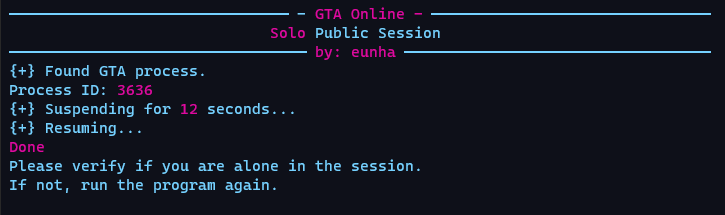
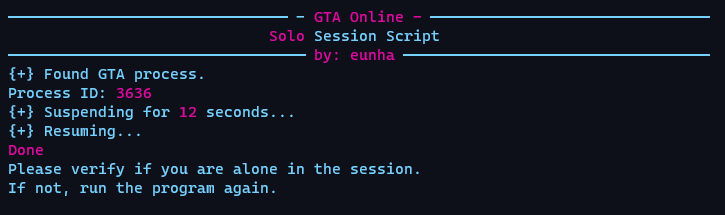
-

Changed region(s): [[0.0, 0.2233, 1.0, 0.9209], [0.0, 0.0279, 1.0, 0.1953]]

diff --git a/gta-sss.py b/gta-sss.py
@@ -57,8 +57,8 @@ def main():
 if __name__ == '__main__':
 	clear()
 	console.rule("- [#de099e]GTA Online -", style=base_style)
-	console.print("[#de099e]Solo [#75d1ff]Public Session 1.0", justify='center')
+	console.print("[#de099e]Solo [#75d1ff]Session Script", justify='center')
 	console.rule("[#de099e]by: eunha", style=base_style)
-	with console.status("Working...", spinner='aesthetic', spinner_style="#09deda", speed=0.2):
+	with console.status("Waiting...", spinner='aesthetic', spinner_style="#09deda", speed=0.2):
 		main()
 	sleep(5)
